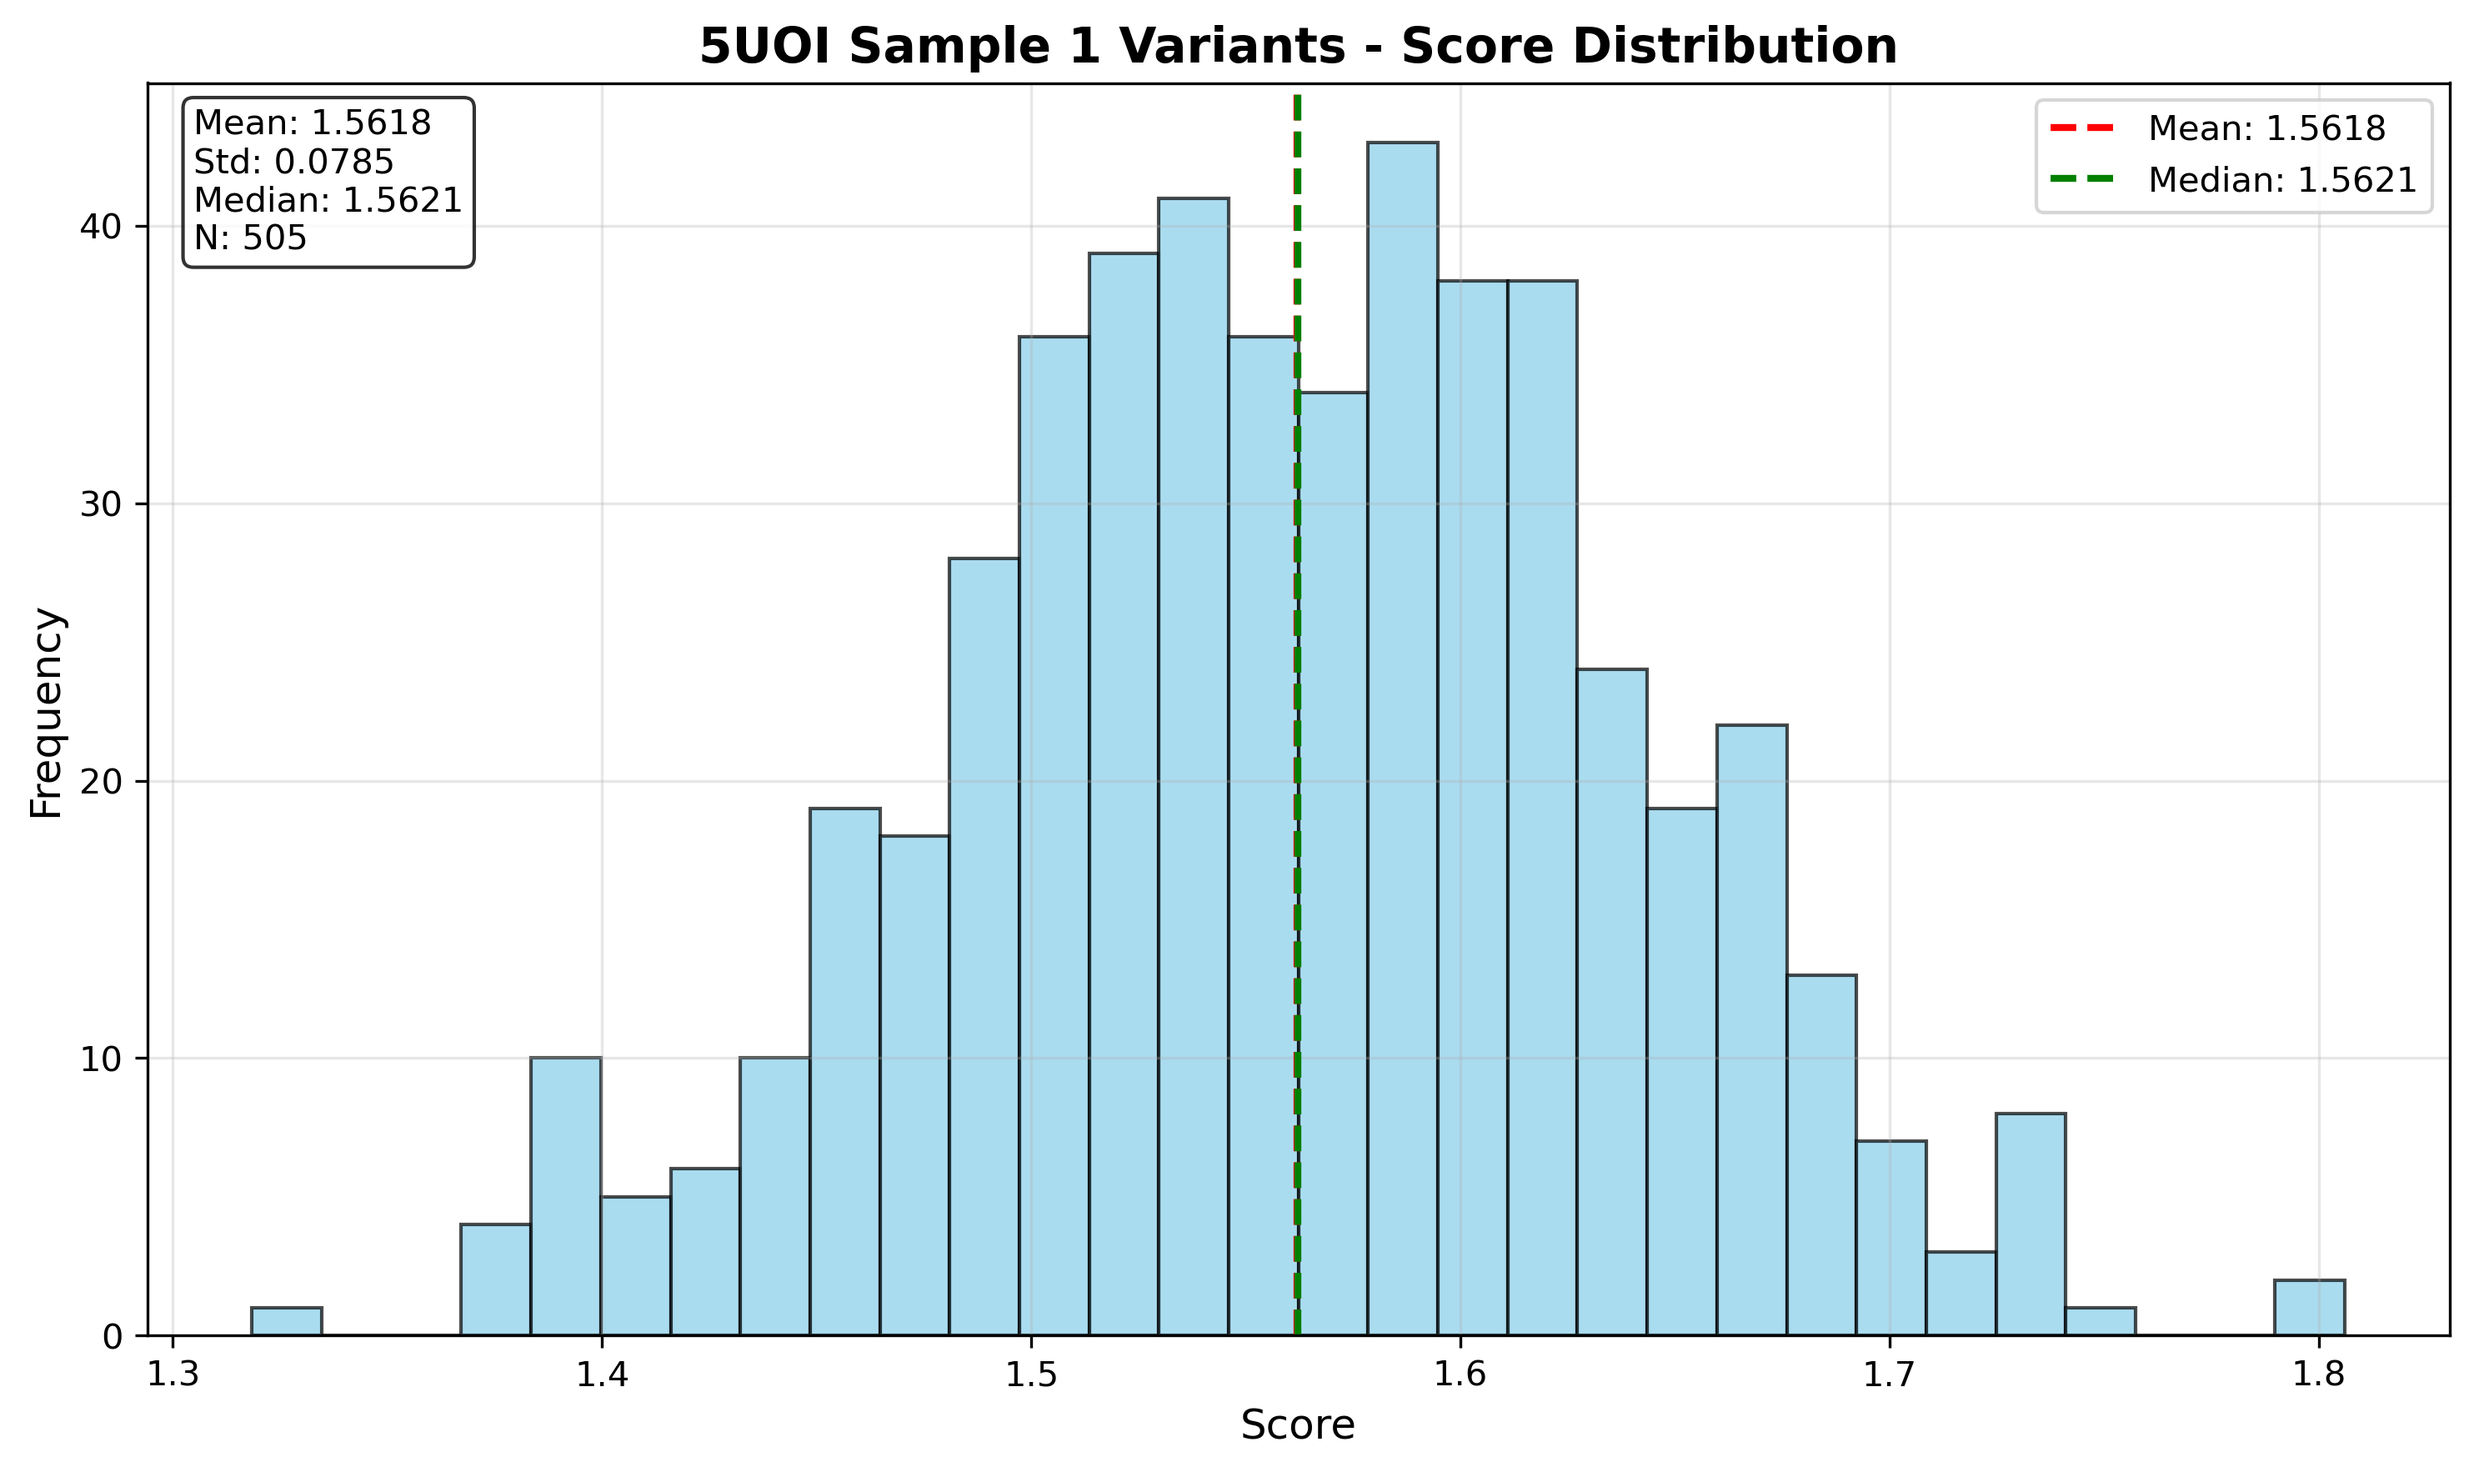
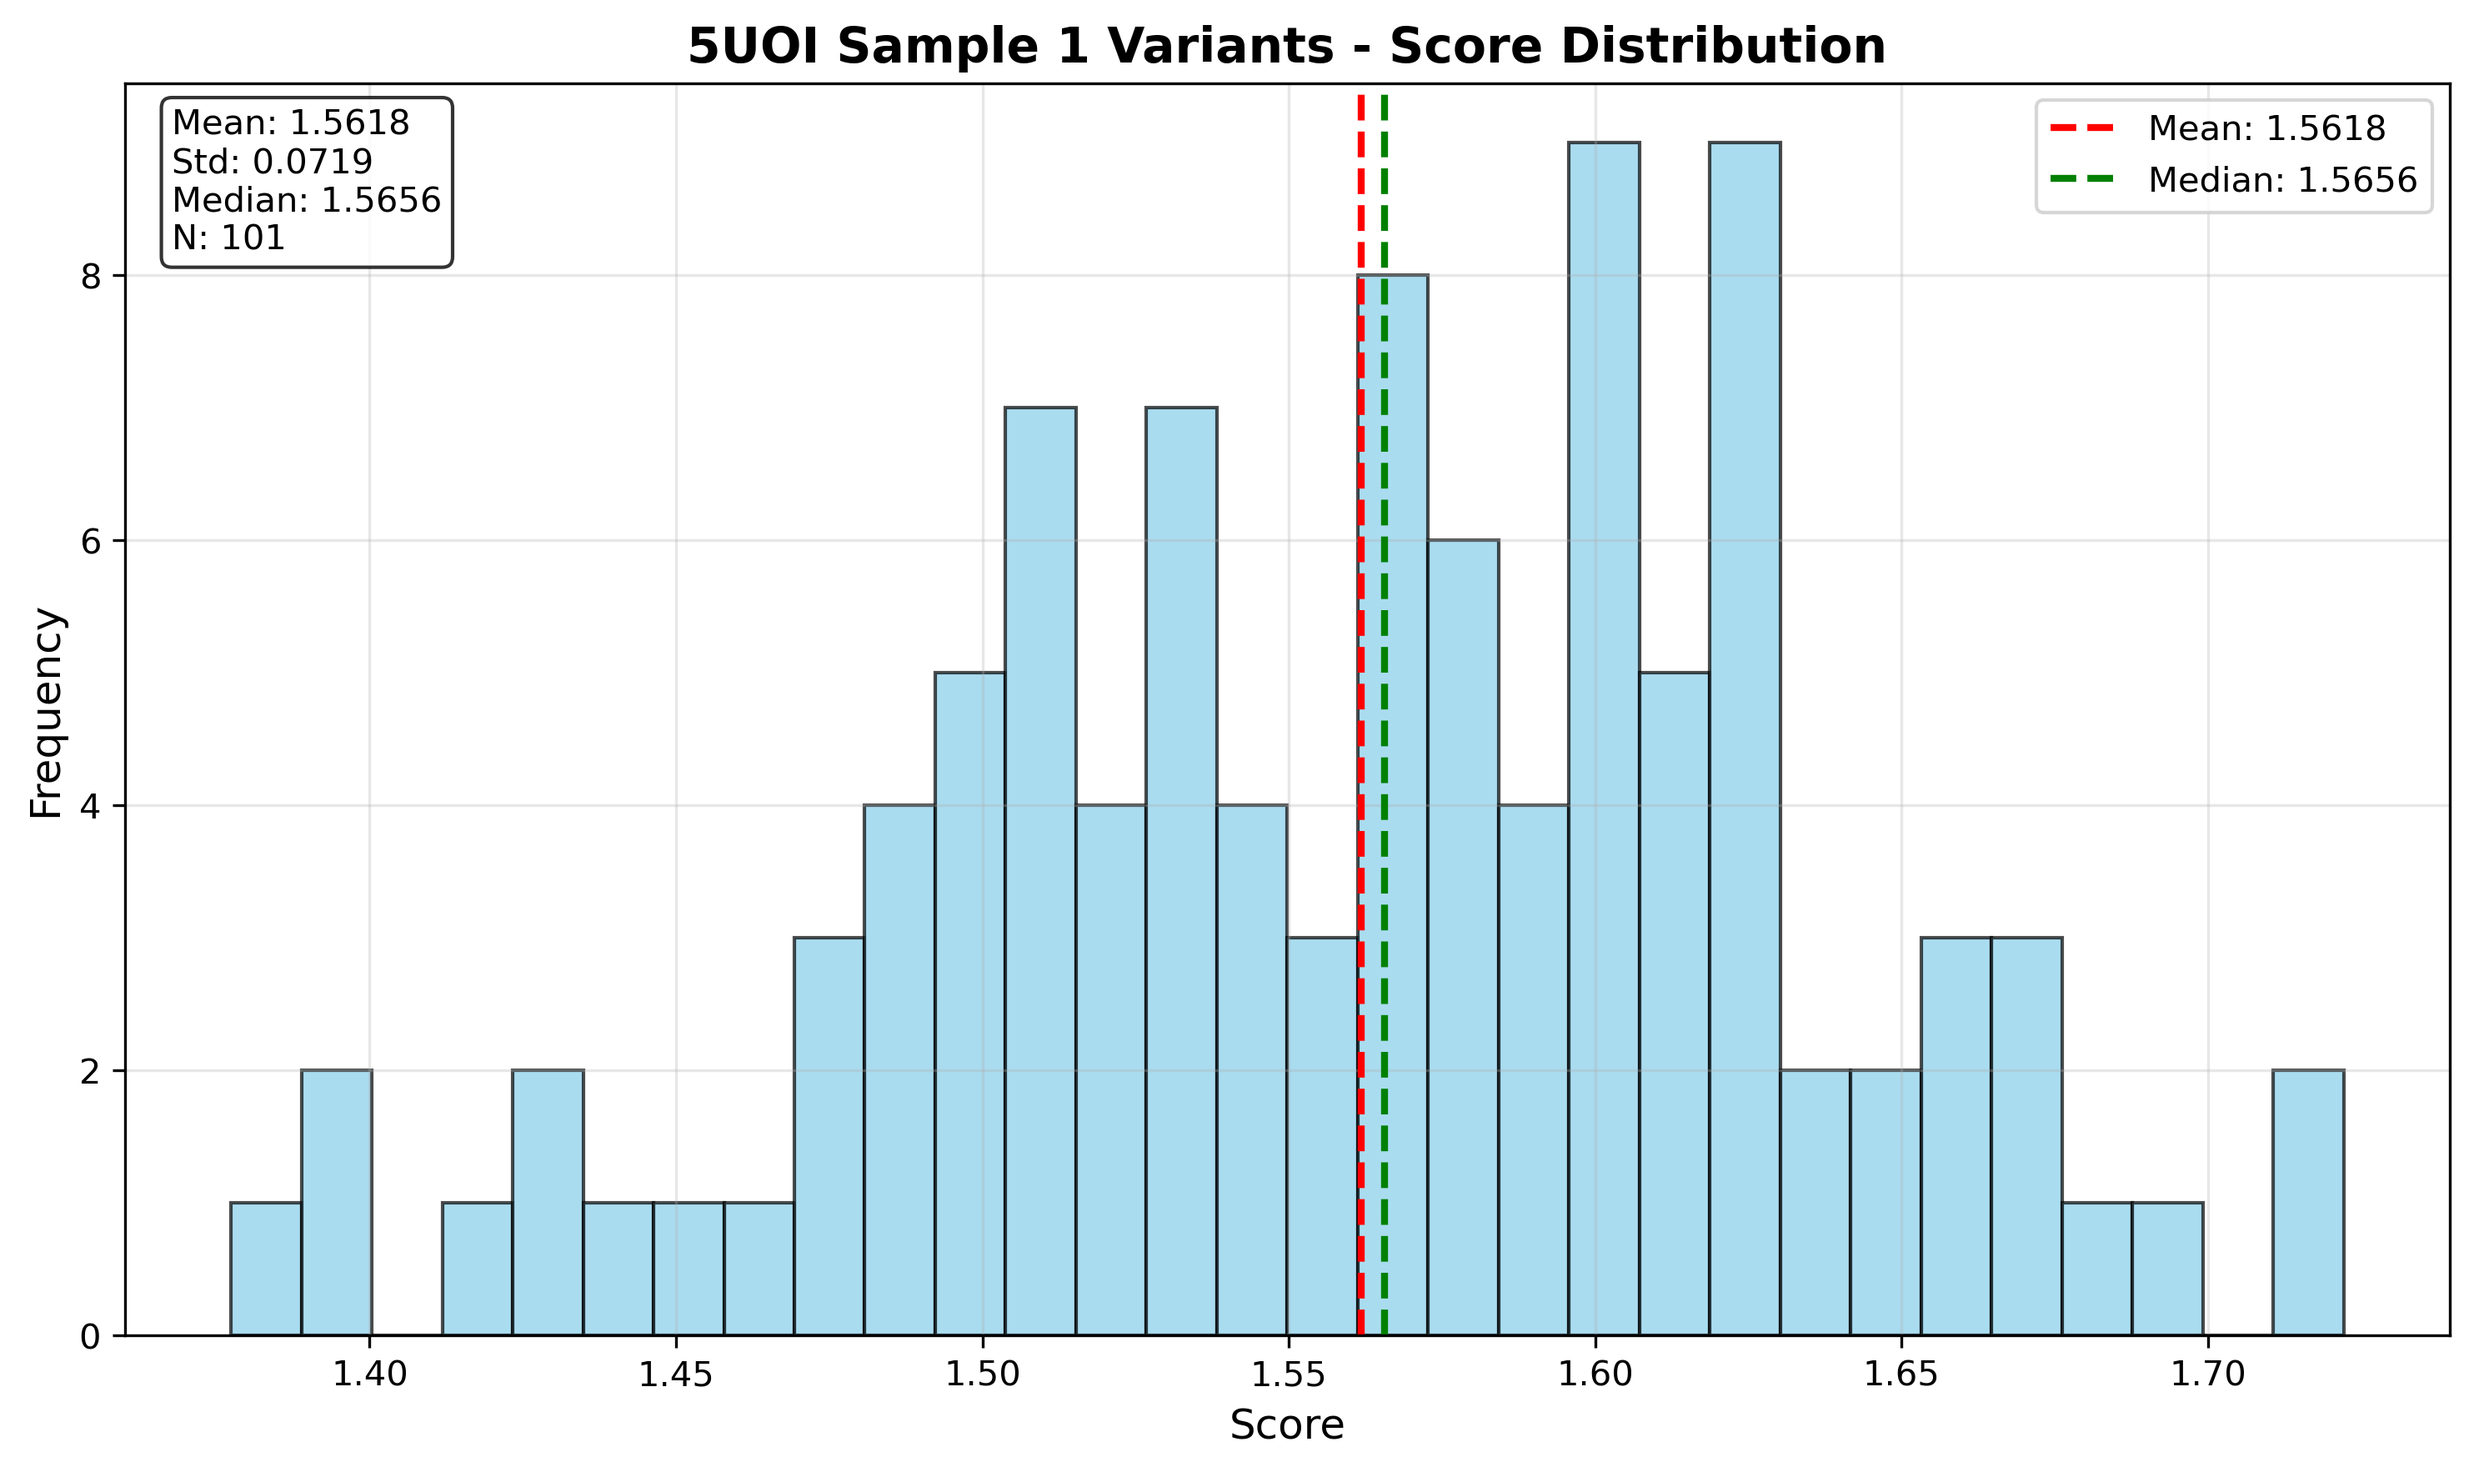
.npz file opener

diff --git a/custom_runs/npz_viewer.py b/custom_runs/npz_viewer.py
@@ -1,0 +1,143 @@
+#!/usr/bin/env python3
+"""
+NPZ File Viewer
+
+This script opens and displays the contents of .npz files.
+It shows detailed information about the data structure, shapes, and basic statistics.
+"""
+
+import numpy as np
+import argparse
+import os
+import sys
+from pathlib import Path
+
+def view_npz_file(npz_path):
+    """
+    Open and display the contents of an NPZ file.
+    
+    Args:
+        npz_path (str): Path to the NPZ file
+    """
+    try:
+        # Load the NPZ file
+        data = np.load(npz_path)
+        
+        print(f"\n{'='*60}")
+        print(f"NPZ File: {npz_path}")
+        print(f"{'='*60}")
+        
+        # Get file size
+        file_size = os.path.getsize(npz_path)
+        print(f"File size: {file_size:,} bytes ({file_size/1024:.2f} KB)")
+        
+        # List all arrays in the NPZ file
+        print(f"\nArrays in file:")
+        print(f"{'Array Name':<20} {'Shape':<15} {'Data Type':<12} {'Size':<10}")
+        print(f"{'-'*20} {'-'*15} {'-'*12} {'-'*10}")
+        
+        total_elements = 0
+        for key in data.keys():
+            array = data[key]
+            shape_str = str(array.shape)
+            dtype_str = str(array.dtype)
+            size = array.size
+            total_elements += size
+            
+            print(f"{key:<20} {shape_str:<15} {dtype_str:<12} {size:,}")
+        
+        print(f"\nTotal elements: {total_elements:,}")
+        
+        # Display detailed information for each array
+        print(f"\n{'='*60}")
+        print("DETAILED ARRAY INFORMATION")
+        print(f"{'='*60}")
+        
+        for key in data.keys():
+            array = data[key]
+            print(f"\nArray: '{key}'")
+            print(f"{'-'*40}")
+            print(f"Shape: {array.shape}")
+            print(f"Data type: {array.dtype}")
+            print(f"Size: {array.size:,} elements")
+            print(f"Memory usage: {array.nbytes:,} bytes ({array.nbytes/1024:.2f} KB)")
+            
+            # Basic statistics for numeric arrays
+            if np.issubdtype(array.dtype, np.number):
+                print(f"Min: {np.min(array):.6f}")
+                print(f"Max: {np.max(array):.6f}")
+                print(f"Mean: {np.mean(array):.6f}")
+                print(f"Std: {np.std(array):.6f}")
+                print(f"Median: {np.median(array):.6f}")
+                
+                # Show first few and last few elements
+                if array.size <= 10:
+                    print(f"All values: {array}")
+                else:
+                    print(f"First 5 values: {array.flatten()[:5]}")
+                    print(f"Last 5 values: {array.flatten()[-5:]}")
+            else:
+                # For non-numeric arrays, show unique values
+                unique_vals = np.unique(array)
+                if len(unique_vals) <= 10:
+                    print(f"Unique values: {unique_vals}")
+                else:
+                    print(f"First 5 unique values: {unique_vals[:5]}")
+                    print(f"Total unique values: {len(unique_vals)}")
+        
+        # Close the file
+        data.close()
+        
+    except FileNotFoundError:
+        print(f"Error: File '{npz_path}' not found.")
+        sys.exit(1)
+    except Exception as e:
+        print(f"Error reading NPZ file: {e}")
+        sys.exit(1)
+
+def main():
+    """Main function to handle command line arguments and execute the viewer."""
+    parser = argparse.ArgumentParser(
+        description="View the contents of NPZ files",
+        formatter_class=argparse.RawDescriptionHelpFormatter,
+        epilog="""
+Examples:
+  python3 npz_viewer.py file.npz
+  python3 npz_viewer.py /path/to/scores.npz
+  python3 npz_viewer.py *.npz
+        """
+    )
+    
+    parser.add_argument(
+        'npz_files',
+        nargs='+',
+        help='NPZ file(s) to view'
+    )
+    
+    parser.add_argument(
+        '--verbose', '-v',
+        action='store_true',
+        help='Show more detailed information'
+    )
+    
+    args = parser.parse_args()
+    
+    # Process each NPZ file
+    for npz_file in args.npz_files:
+        # Handle glob patterns
+        if '*' in npz_file or '?' in npz_file:
+            import glob
+            matching_files = glob.glob(npz_file)
+            if not matching_files:
+                print(f"No files found matching pattern: {npz_file}")
+                continue
+            for file in matching_files:
+                if file.endswith('.npz'):
+                    view_npz_file(file)
+        else:
+            if not npz_file.endswith('.npz'):
+                print(f"Warning: File '{npz_file}' doesn't have .npz extension")
+            view_npz_file(npz_file)
+
+if __name__ == "__main__":
+    main() 

diff --git a/custom_runs/score_histogram.py b/custom_runs/score_histogram.py
@@ -27,25 +27,29 @@ def load_scores_from_csv(csv_path):
     df = pd.read_csv(csv_path)
     return df['Mean Score'].tolist()
 
-def load_scores_from_npz_files(npz_dir):
+def load_mean_scores_from_npz_files(npz_dir):
     """
-    Load all scores from NPZ files in a directory.
+    Load mean scores from NPZ files in a directory.
+    Each NPZ file contains multiple scores for the same sequence variant.
+    This function calculates the mean score for each variant.
     
     Args:
         npz_dir (str): Directory containing NPZ files
         
     Returns:
-        list: List of all scores from all NPZ files
+        list: List of mean scores, one per NPZ file
     """
-    all_scores = []
+    mean_scores = []
     npz_files = glob.glob(os.path.join(npz_dir, "*.npz"))
     
     for npz_file in npz_files:
         data = np.load(npz_file)
         scores = data['score']
-        all_scores.extend(scores)
+        # Calculate mean score for this variant
+        mean_score = np.mean(scores)
+        mean_scores.append(mean_score)
     
-    return all_scores
+    return mean_scores
 
 def create_histogram(scores, output_path, title="Score Distribution", 
                     xlabel="Score", ylabel="Frequency", bins=30, 
@@ -129,8 +133,8 @@ def main():
         scores = load_scores_from_csv(args.input)
         print(f"Loaded {len(scores)} mean scores from CSV file")
     elif args.data_type == 'npz':
-        scores = load_scores_from_npz_files(args.input)
-        print(f"Loaded {len(scores)} individual scores from NPZ files")
+        scores = load_mean_scores_from_npz_files(args.input)
+        print(f"Loaded {len(scores)} mean scores from NPZ files")
     
     # Create histogram
     create_histogram(scores, args.output, title=args.title, bins=args.bins)
@@ -139,14 +143,14 @@ if __name__ == "__main__":
     # Example usage without command line arguments
     if len(os.sys.argv) == 1:
         # Default example: plot scores from NPZ files in sample 1
-        npz_dir = "../outputs/my_variants/5UOI/sample_variant_scores/1/score_only"
-        output_path = "../outputs/my_variants/5UOI/sample_variant_scores/1/score_only/score_histogram.png"
+        npz_dir = "../outputs/my_variants/5UOI/sample_variant_scores/5/score_only"
+        output_path = "../outputs/my_variants/5UOI/sample_variant_scores/5/score_only/score_histogram.png"
         
         if os.path.exists(npz_dir):
             print("Creating histogram from NPZ files...")
-            scores = load_scores_from_npz_files(npz_dir)
+            scores = load_mean_scores_from_npz_files(npz_dir)
             create_histogram(scores, output_path, 
-                           title="5UOI Sample 1 Variants - Score Distribution",
+                           title="5UOI Sample 5 Variants - Score Distribution",
                            xlabel="Score", ylabel="Frequency")
         else:
             print(f"NPZ directory not found: {npz_dir}")

diff --git a/custom_runs/README_npz_viewer.md b/custom_runs/README_npz_viewer.md
@@ -1,0 +1,109 @@
+# NPZ File Viewer
+
+A Python script to view and analyze the contents of .npz files.
+
+## Features
+
+- Displays detailed information about arrays in NPZ files
+- Shows file size, array shapes, data types, and element counts
+- Provides statistical information for numeric arrays (min, max, mean, std, median)
+- Shows sample values from arrays
+- Supports multiple files and glob patterns
+- Handles both numeric and non-numeric data
+
+## Usage
+
+### Basic Usage
+
+```bash
+# View a single NPZ file
+python npz_viewer.py file.npz
+
+# View multiple NPZ files
+python npz_viewer.py file1.npz file2.npz file3.npz
+
+# Use glob patterns to view multiple files
+python npz_viewer.py *.npz
+python npz_viewer.py outputs/**/*.npz
+```
+
+### Examples
+
+```bash
+# View a specific score file
+python npz_viewer.py outputs/my_variants/5UOI/sample_variant_scores/1/score_only/5UOI_fasta_1.npz
+
+# View all score files in a directory
+python npz_viewer.py outputs/my_variants/5UOI/sample_variant_scores/1/score_only/*.npz
+
+# View files from multiple directories
+python npz_viewer.py outputs/example_*_outputs/score_only/*.npz
+```
+
+## Output Format
+
+The script provides:
+
+1. **File Information**: File path and size
+2. **Array Summary**: Table showing all arrays with their shapes, data types, and sizes
+3. **Detailed Analysis**: For each array:
+   - Shape and data type
+   - Memory usage
+   - Statistical information (for numeric arrays)
+   - Sample values (first/last few elements)
+
+## Example Output
+
+```
+============================================================
+NPZ File: outputs/my_variants/5UOI/sample_variant_scores/1/score_only/5UOI_fasta_1.npz
+============================================================
+File size: 1,556 bytes (1.52 KB)
+
+Arrays in file:
+Array Name           Shape           Data Type    Size      
+-------------------- --------------- ------------ ----------
+score                (5,)            float32      5
+global_score         (5,)            float32      5
+S                    (43,)           int64        43
+seq_str              ()              <U43         1
+
+Total elements: 54
+
+============================================================
+DETAILED ARRAY INFORMATION
+============================================================
+
+Array: 'score'
+----------------------------------------
+Shape: (5,)
+Data type: float32
+Size: 5 elements
+Memory usage: 20 bytes (0.02 KB)
+Min: 1.564774
+Max: 1.705446
+Mean: 1.627793
+Std: 0.046428
+Median: 1.616835
+All values: [1.6079348 1.6168348 1.5647739 1.6439734 1.7054458]
+```
+
+## Requirements
+
+- Python 3.6+
+- NumPy
+
+## Installation
+
+No installation required. Just run the script directly:
+
+```bash
+python npz_viewer.py your_file.npz
+```
+
+## Notes
+
+- The script automatically closes NPZ files after reading them
+- For large arrays, only the first and last 5 values are shown
+- Non-numeric arrays show unique values instead of statistics
+- The script handles errors gracefully and provides informative error messages 
